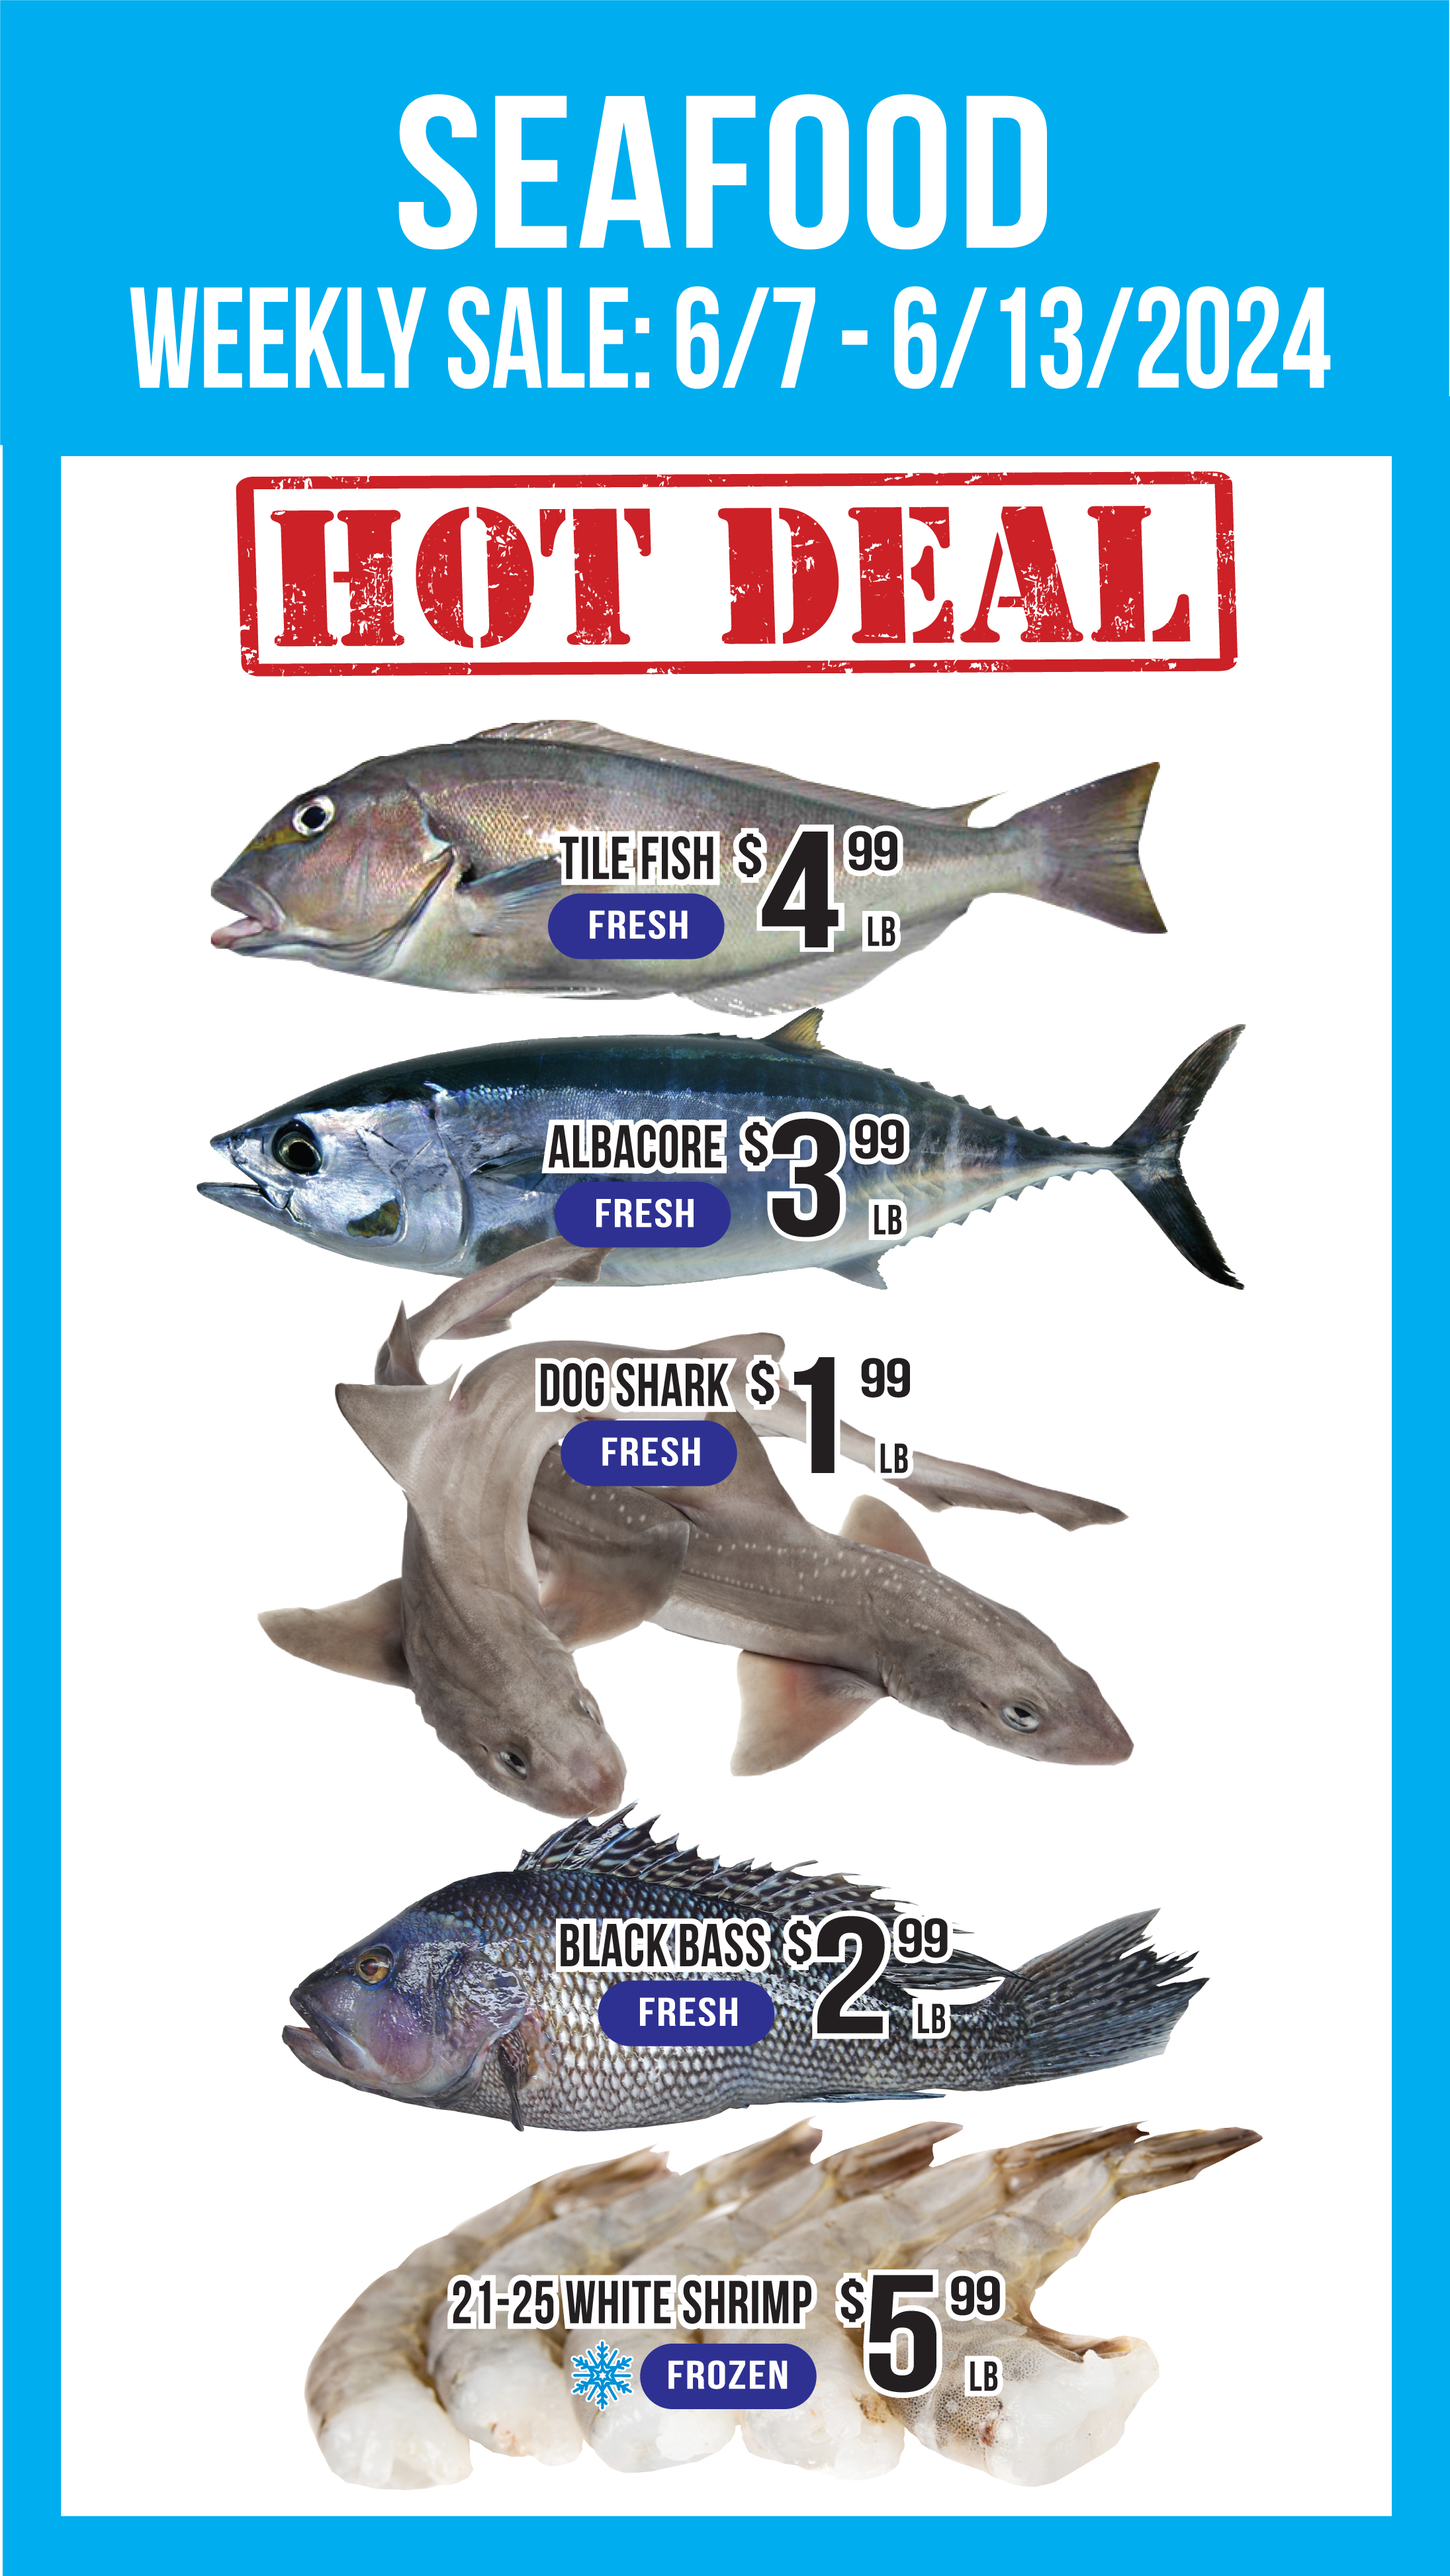
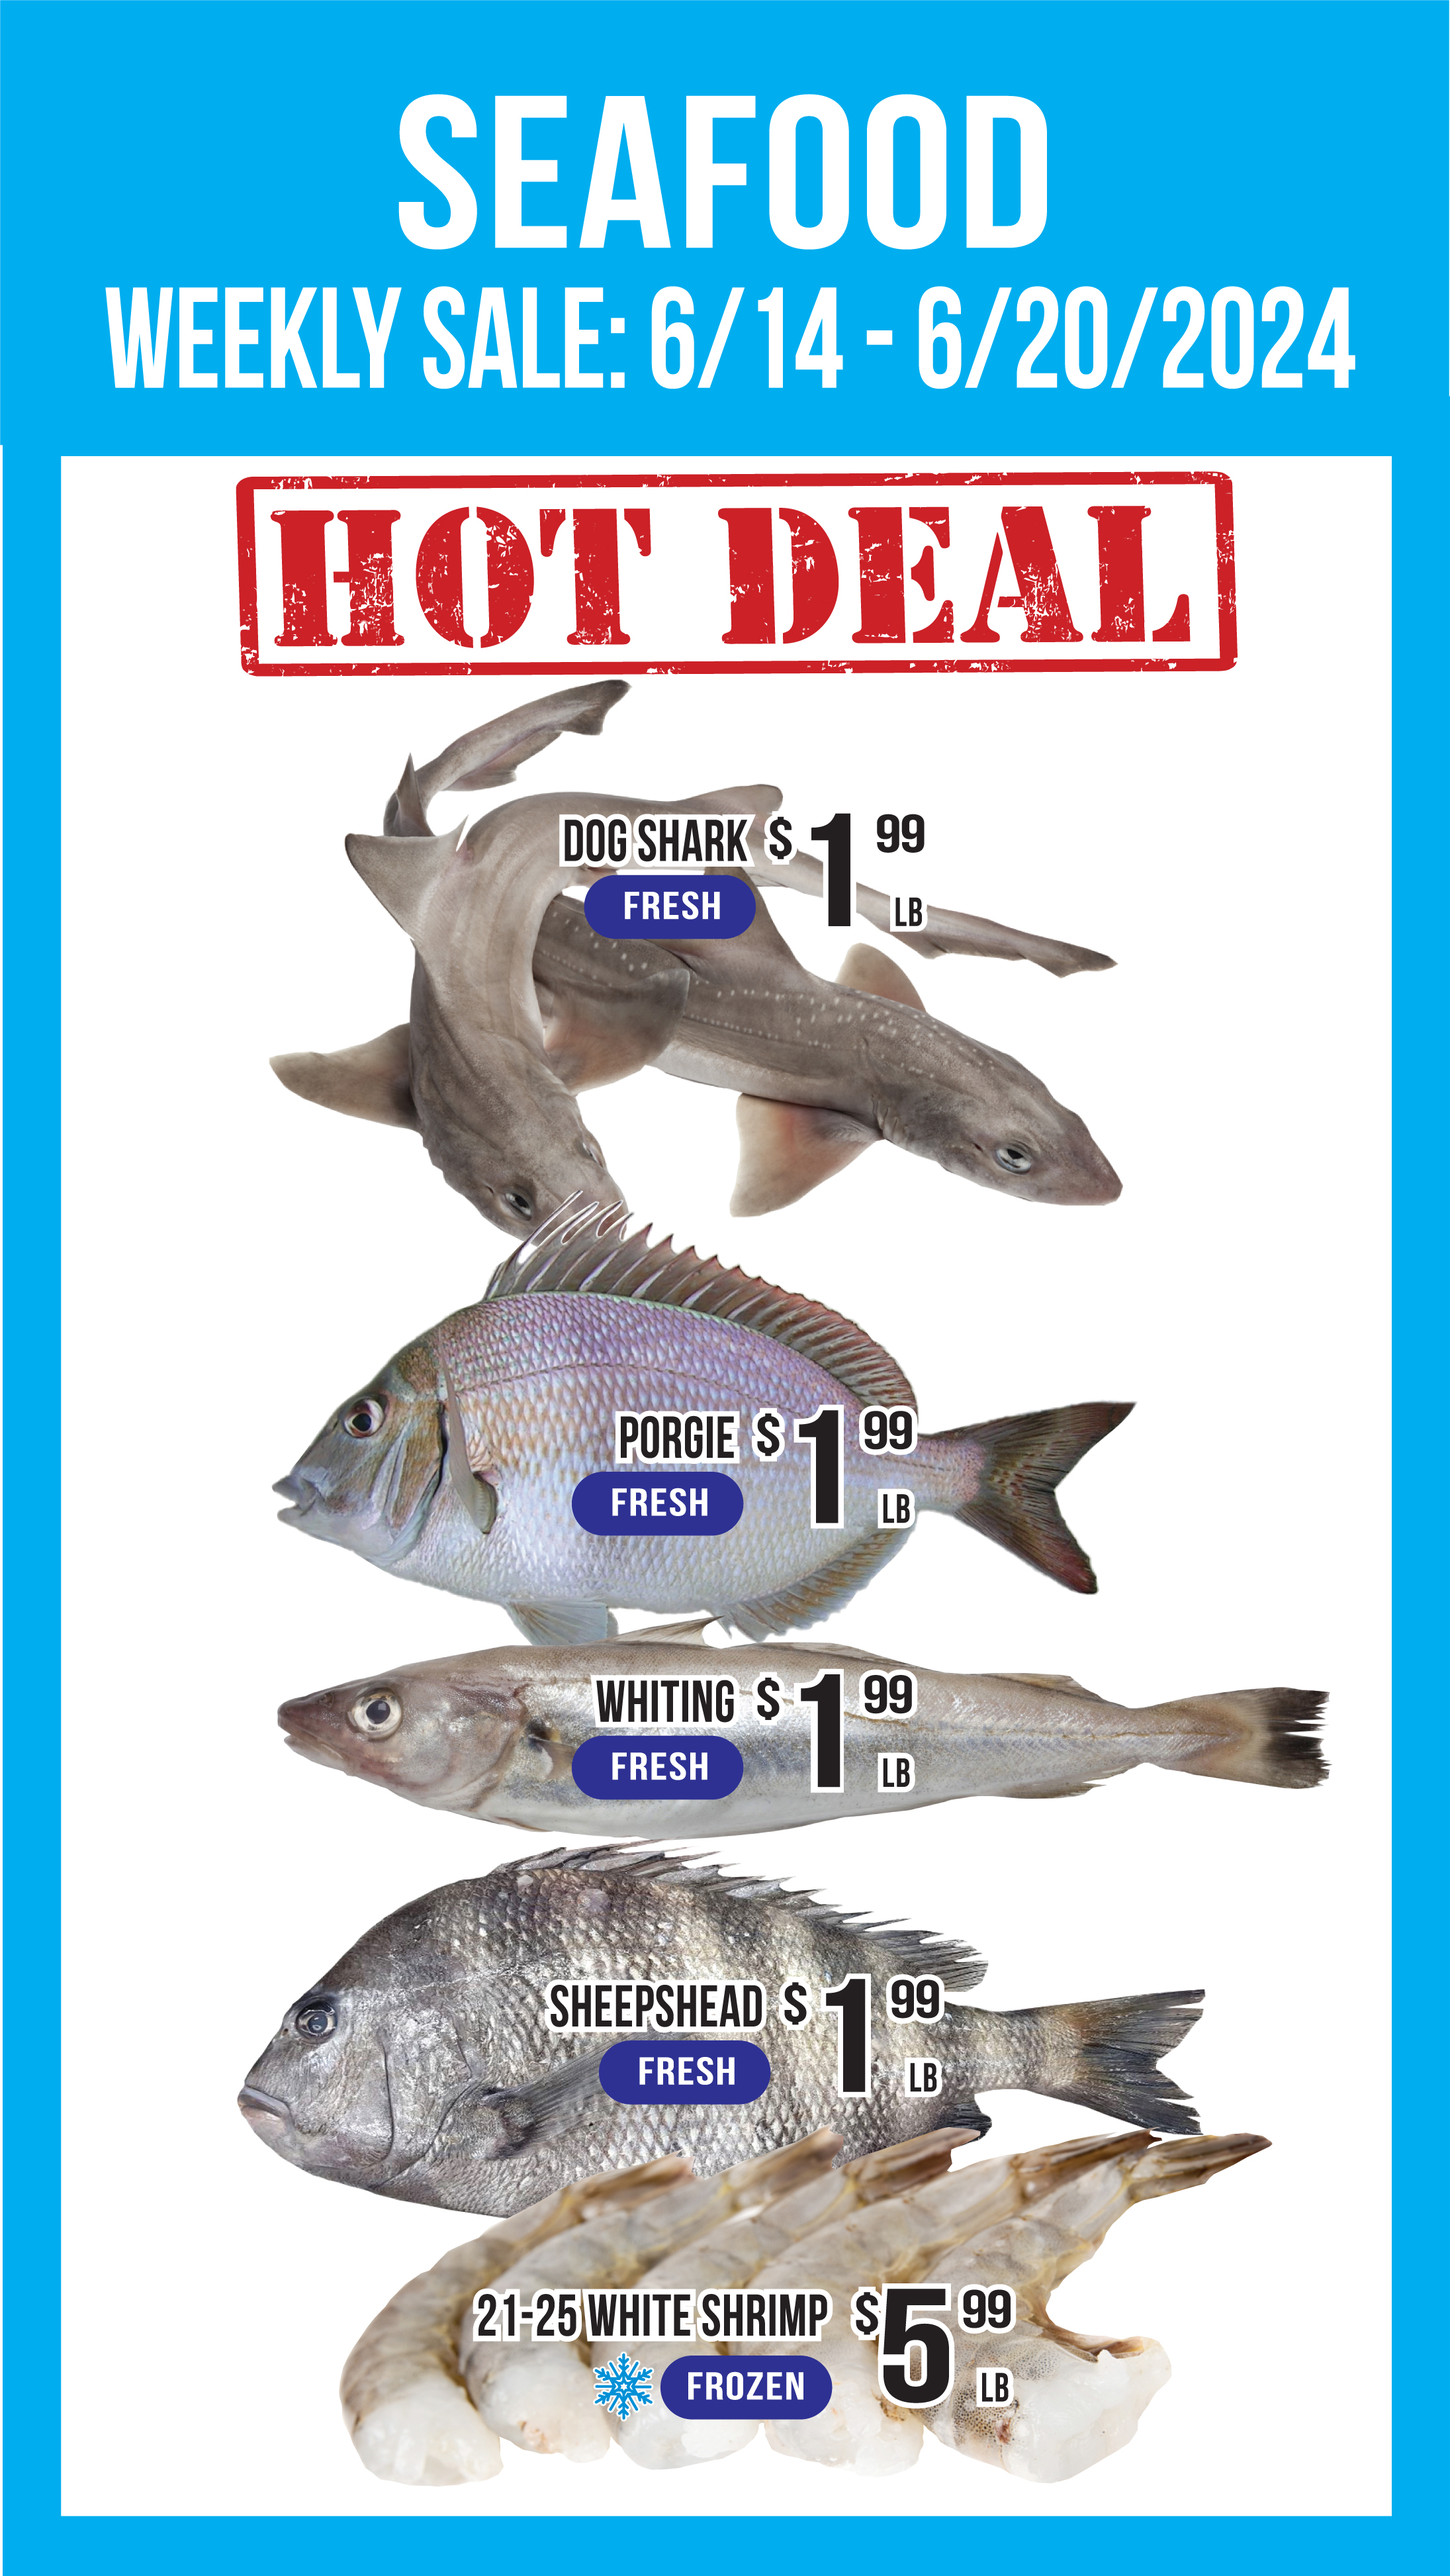
weekly specials

diff --git a/index.html b/index.html
@@ -64,16 +64,16 @@
           <img src="./public/assets/sp.jpg" class="d-block w-100 img-fluid" alt="...">
         </div> -->
         <div class="carousel-item center-carousel active">
-          <img src="./public/assets/weekly/meat.jpg?v=0607" class="img-fluid" alt="...">
+          <img src="./public/assets/weekly/meat.jpg?v=0614" class="img-fluid" alt="...">
         </div>
         <div class="carousel-item center-carousel">
-          <img src="./public/assets/weekly/veg.jpg?v=0607" class="img-fluid" alt="...">
+          <img src="./public/assets/weekly/veg.jpg?v=0614" class="img-fluid" alt="...">
         </div>
         <div class="carousel-item center-carousel">
-          <img src="./public/assets/weekly/fish.jpg?v=0607" class="img-fluid" alt="...">
+          <img src="./public/assets/weekly/fish.jpg?v=0614" class="img-fluid" alt="...">
         </div>
         <div class="carousel-item center-carousel">
-          <img src="./public/assets/weekly/grocery.jpg?v=0607" class="img-fluid" alt="...">
+          <img src="./public/assets/weekly/grocery.jpg?v=0614" class="img-fluid" alt="...">
         </div>
         <!-- <div class="carousel-item center-carousel">
           <img src="./public/assets/sale/grocery2.jpg?v=070623" class="img-fluid" alt="...">

diff --git a/deals.html b/deals.html
@@ -50,15 +50,15 @@
     <div class="row deal">
 
       <h2>English</h2>
-      <img class="img-fluid" src="./public/assets/weekly/english.jpg?v=0607">
+      <img class="img-fluid" src="./public/assets/weekly/english.jpg?v=0614">
 
       <br><br>
       <h2>Spanish</h2>
-      <img class="img-fluid" src="./public/assets/weekly/spanish.jpg?v=0607">
+      <img class="img-fluid" src="./public/assets/weekly/spanish.jpg?v=0614">
 
       <br>
       <h2>Korean</h2>
-      <img class="img-fluid" src="./public/assets/weekly/korean.jpg?v=0607">
+      <img class="img-fluid" src="./public/assets/weekly/korean.jpg?v=0614">
       <br>
       <br>
     </div>
